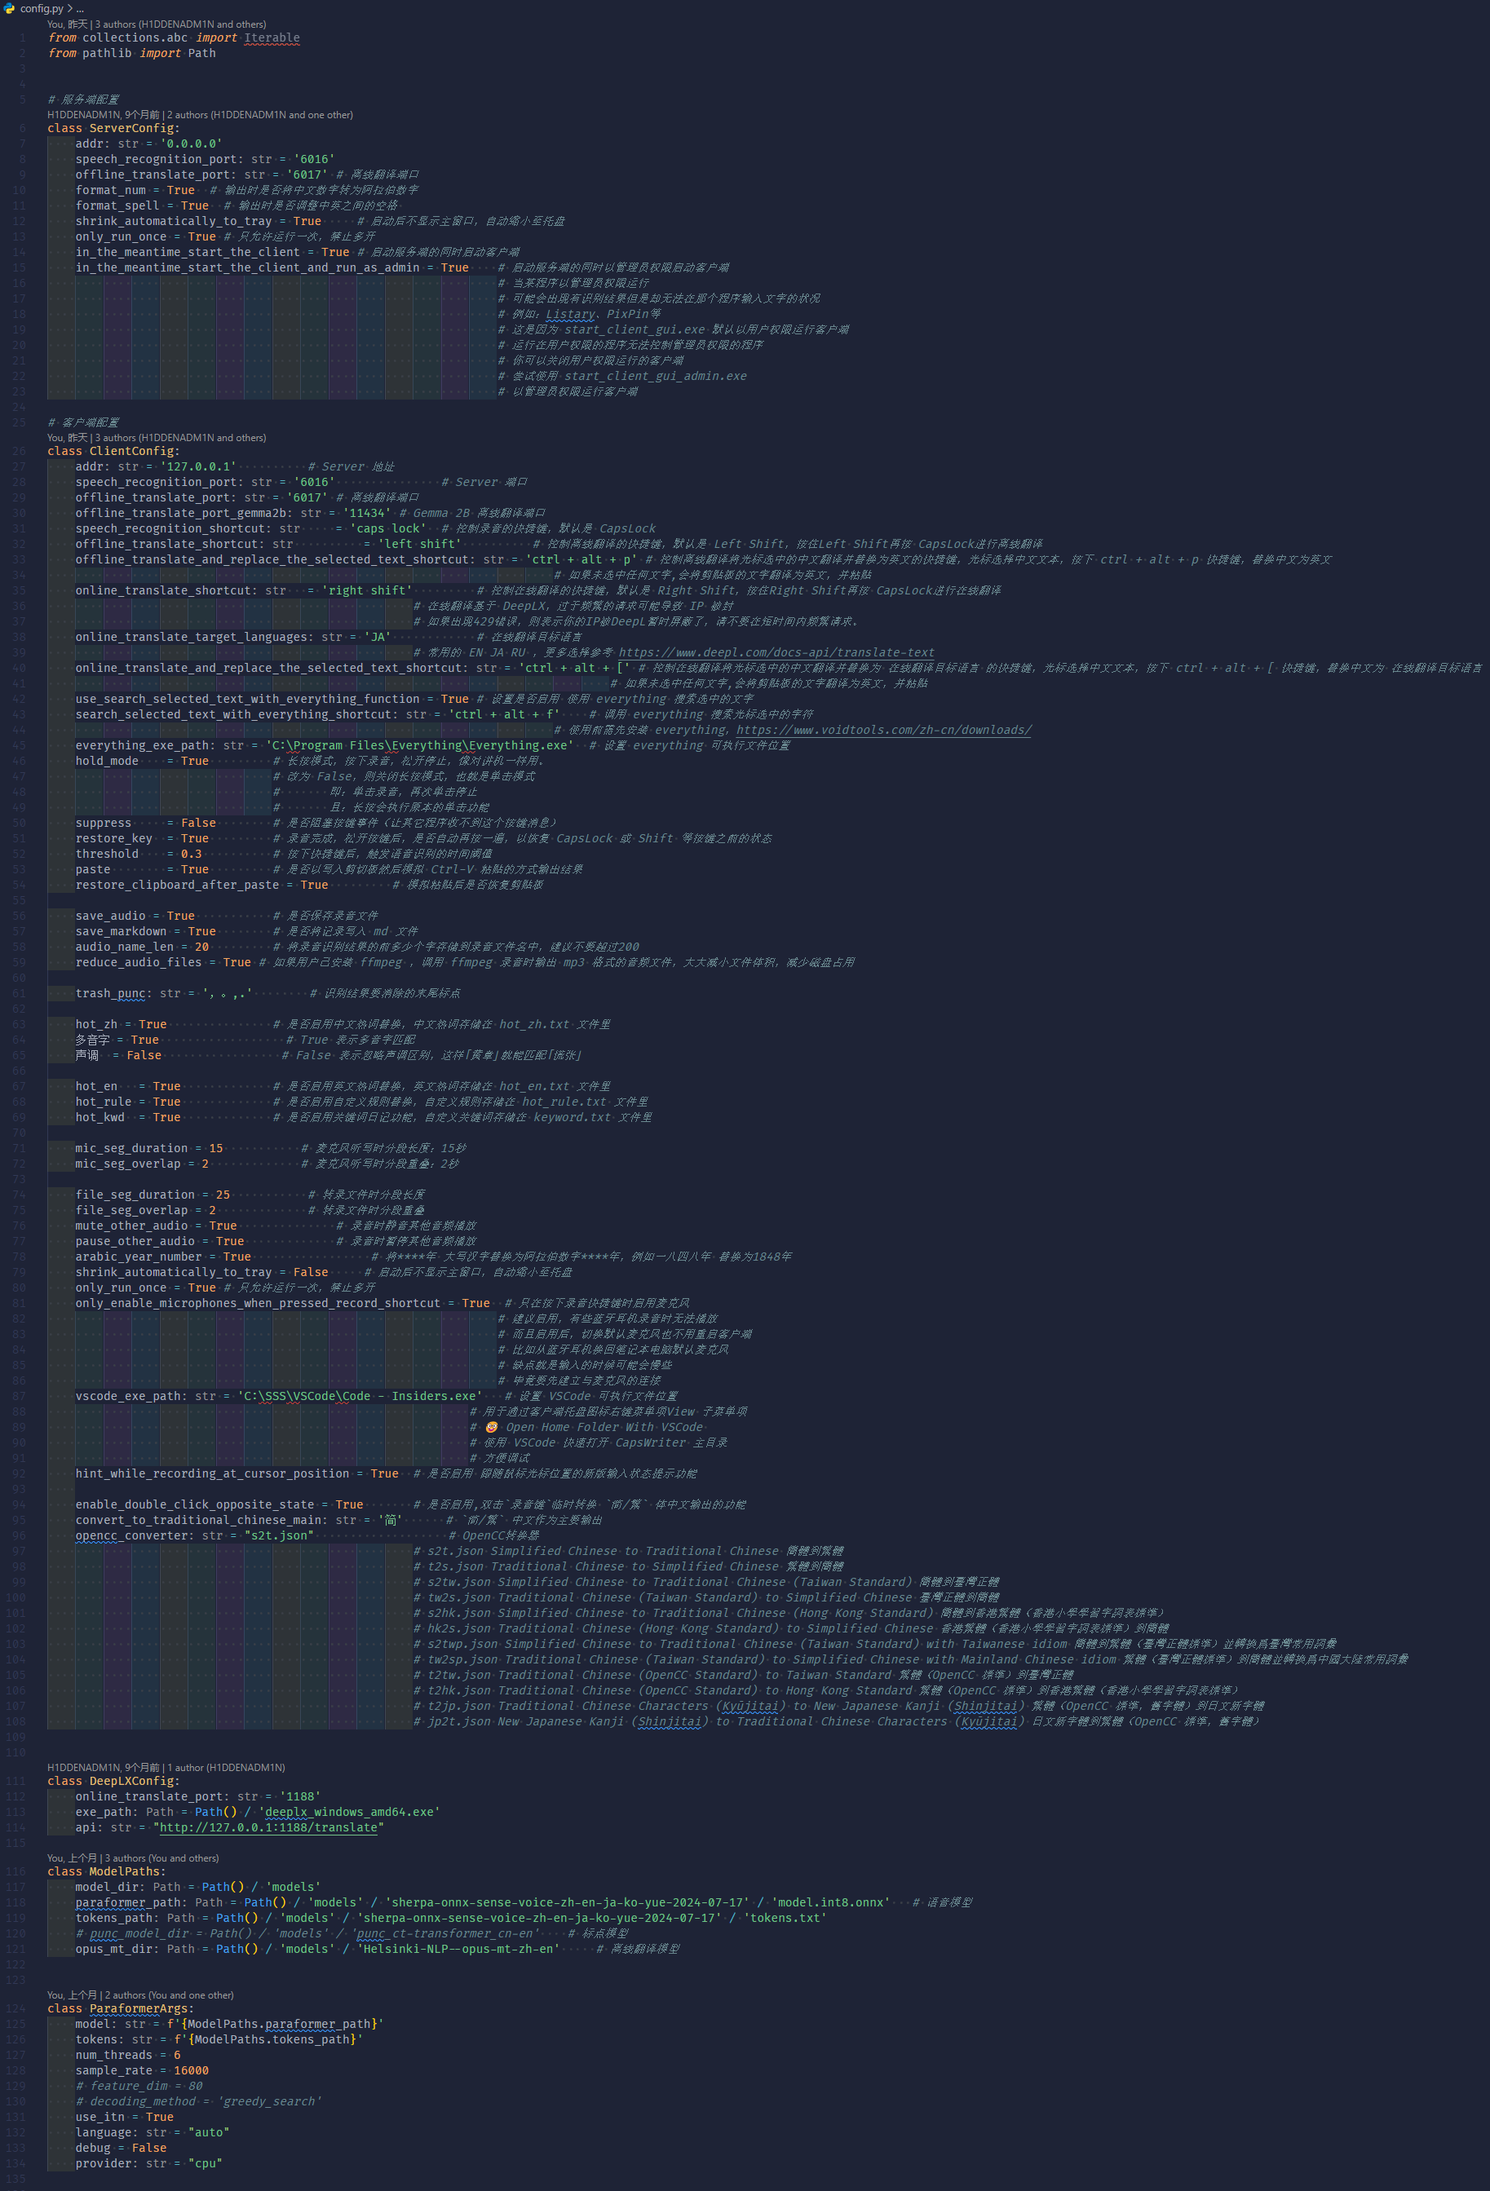
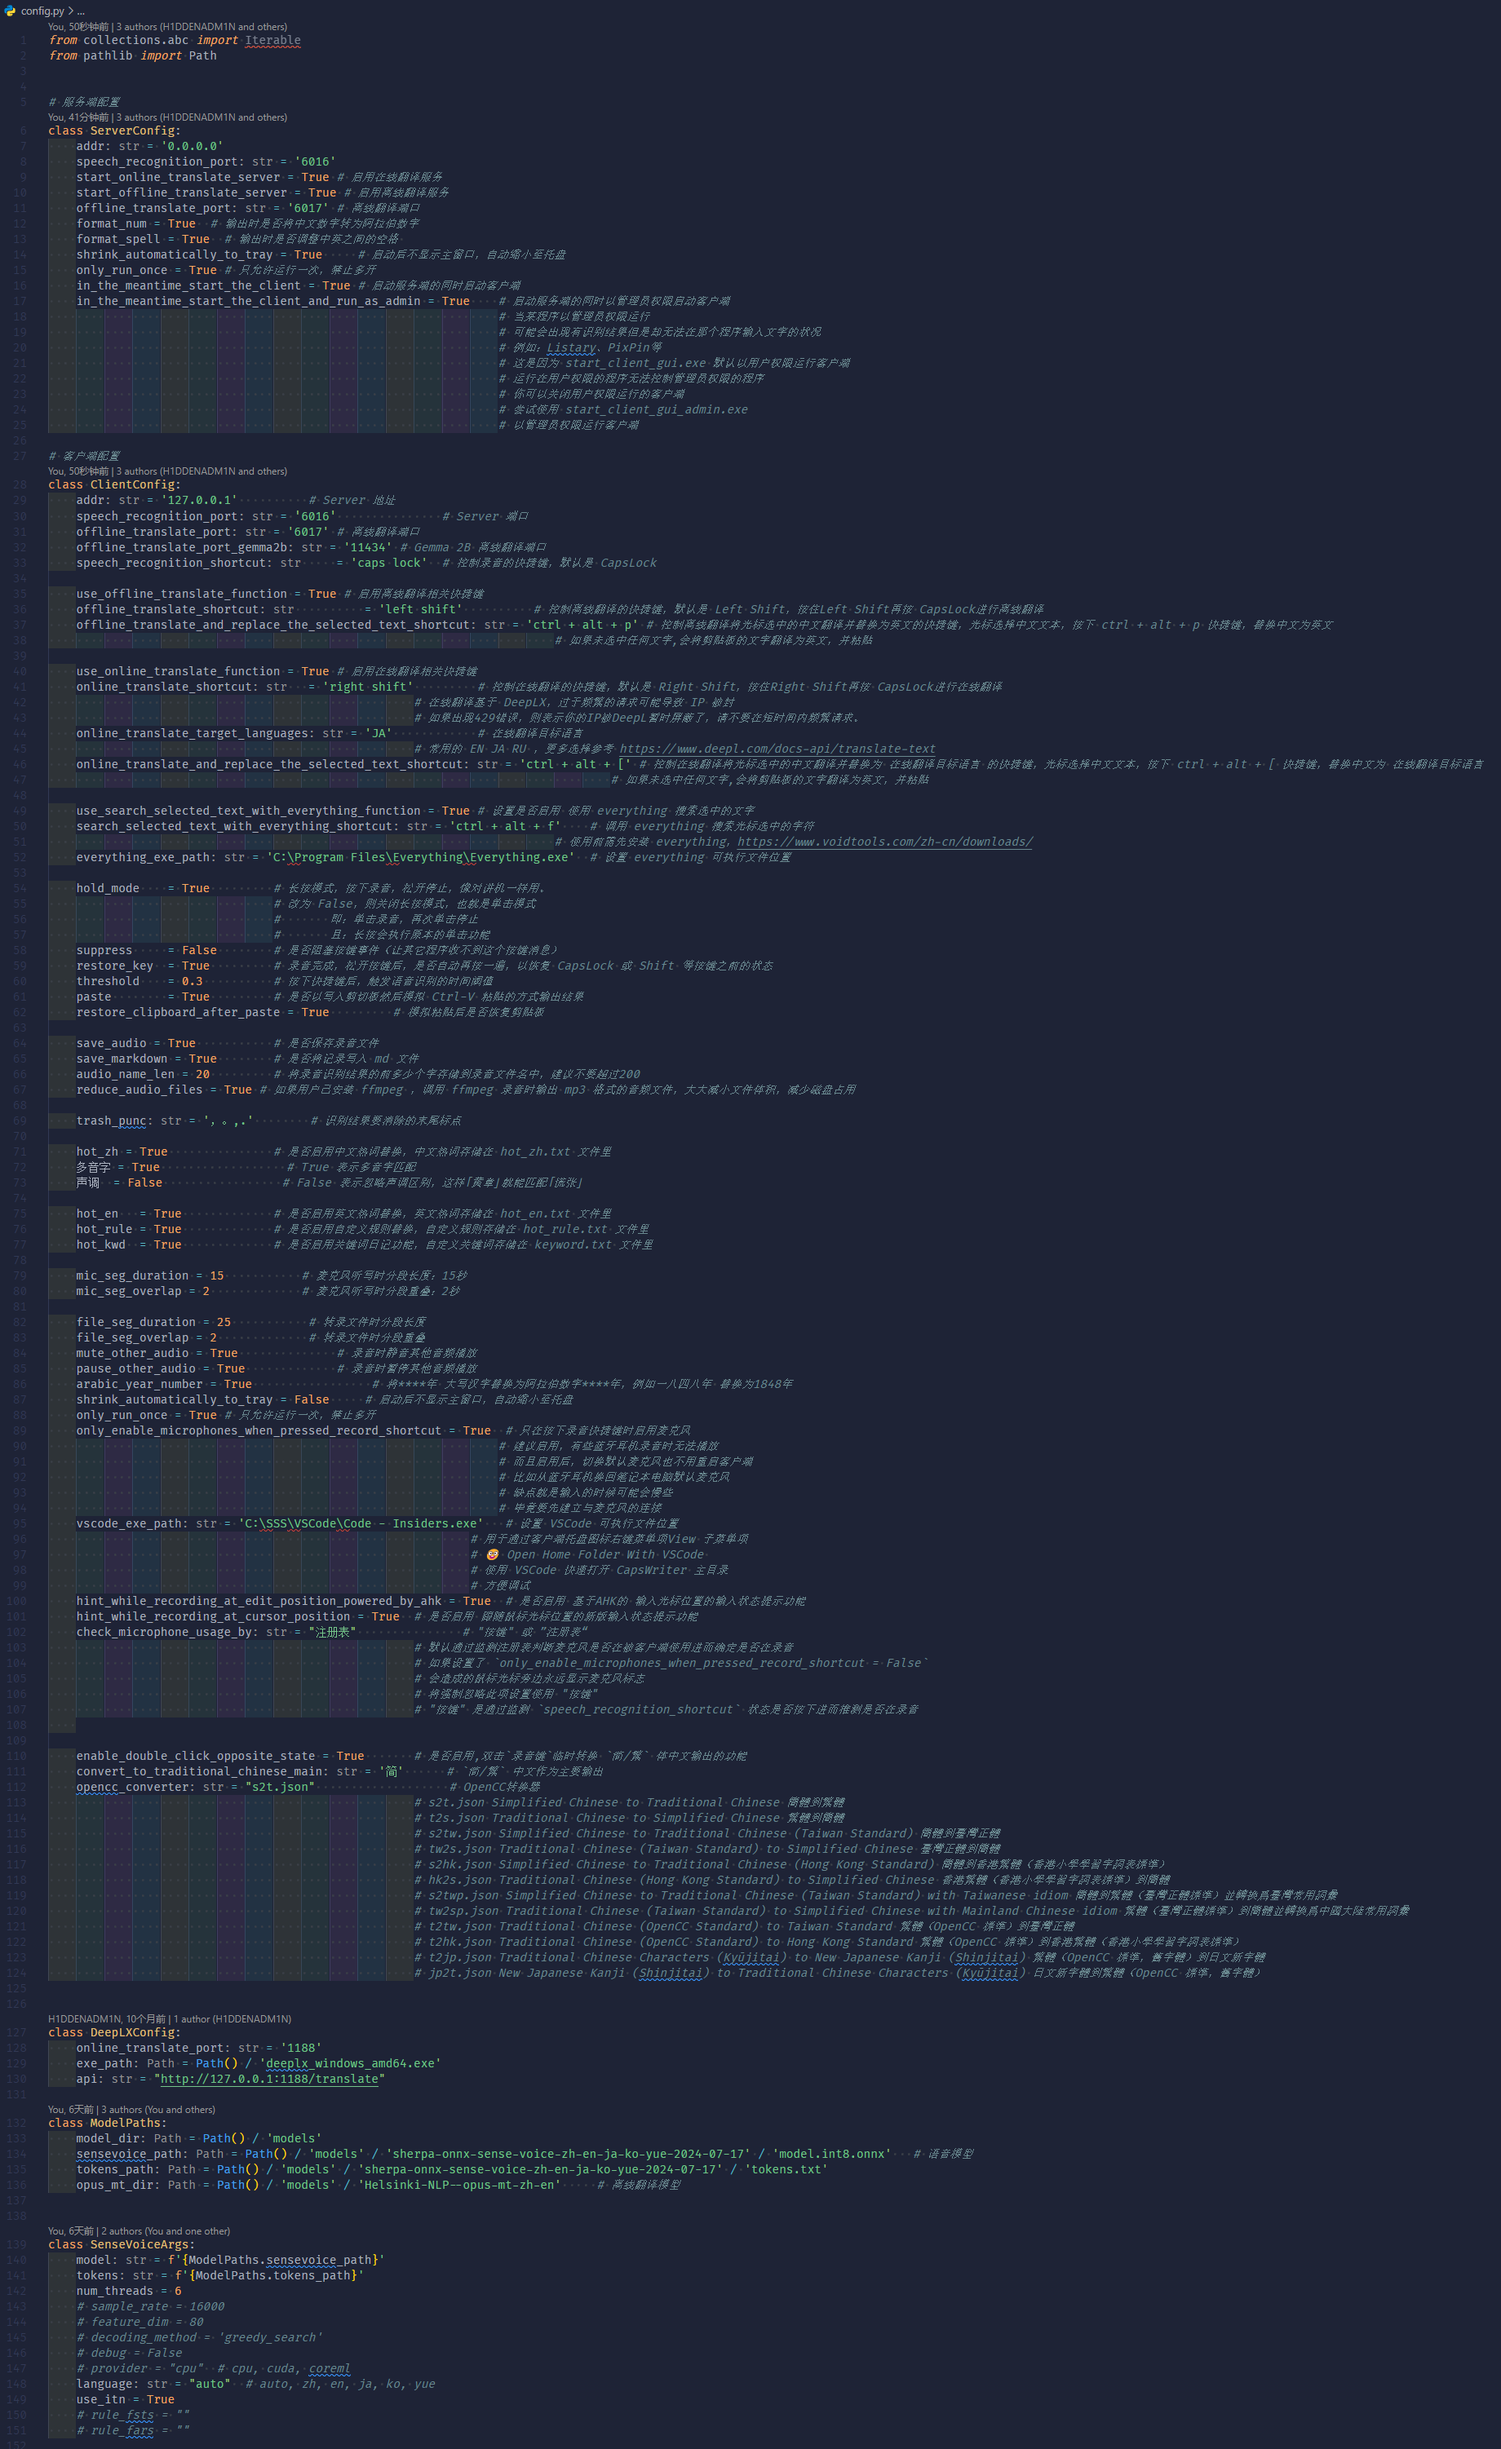
新增 可选项 通过注册表/按键判断是否语音输入中

diff --git a/config.py b/config.py
@@ -99,6 +99,12 @@ class ClientConfig:
                                                             # 方便调试
     hint_while_recording_at_edit_position_powered_by_ahk = True  # 是否启用 基于AHK的 输入光标位置的输入状态提示功能
     hint_while_recording_at_cursor_position = True  # 是否启用 跟随鼠标光标位置的新版输入状态提示功能
+    check_microphone_usage_by = "注册表"               # "按键" 或 ”注册表“
+                                                    # 默认通过监测注册表判断麦克风是否在被客户端使用进而确定是否在录音
+                                                    # 如果设置了 `only_enable_microphones_when_pressed_record_shortcut = False`
+                                                    # 会造成的鼠标光标旁边永远显示麦克风标志
+                                                    # 将强制忽略此项设置使用 "按键"
+                                                    # "按键" 是通过监测 `speech_recognition_shortcut` 状态是否按下进而推测是否在录音
     
 
     enable_double_click_opposite_state = True       # 是否启用,双击`录音键`临时转换 `简/繁` 体中文输出的功能

diff --git a/util/check_microphone_usage.py b/util/check_microphone_usage.py
@@ -3,6 +3,8 @@ import time
 import winreg
 from pathlib import Path
 
+from config import ClientConfig as Config
+
 
 def read_qword_value(root_key, sub_path, value_name):
     try:
@@ -22,6 +24,19 @@ def read_qword_value(root_key, sub_path, value_name):
 
 
 def is_microphone_in_use():
+    if not Config.only_enable_microphones_when_pressed_record_shortcut:
+        return assume_by_keypress()
+    else:
+        match Config.check_microphone_usage_by:
+            case "注册表":
+                return check_by_registry()
+            case "按键":
+                return assume_by_keypress()
+            case _:
+                return check_by_registry()
+
+
+def check_by_registry():
     # Static variables
     if not hasattr(is_microphone_in_use, "last_check_time"):
         is_microphone_in_use.last_check_time = 0
@@ -59,6 +74,15 @@ def is_microphone_in_use():
             # print(send_signal_result)
             is_microphone_in_use.last_check_time = now
         return is_microphone_in_use.cached_result
+
+
+def assume_by_keypress():
+    import keyboard
+
+    if keyboard.is_pressed(Config.speech_recognition_shortcut):
+        return True
+    else:
+        return False
 
 
 def test():

diff --git a/readme.md b/readme.md
@@ -27,6 +27,8 @@
 
 # 👀 最新更新
 
+## 新增 可选项 通过注册表/按键判断是否语音输入中
+
 ## 新增 可选项 是否启用离在线翻译和状态提示
 > start_online_translate_server = True # 启用在线翻译服务
 > start_offline_translate_server = True # 启用离线翻译服务
